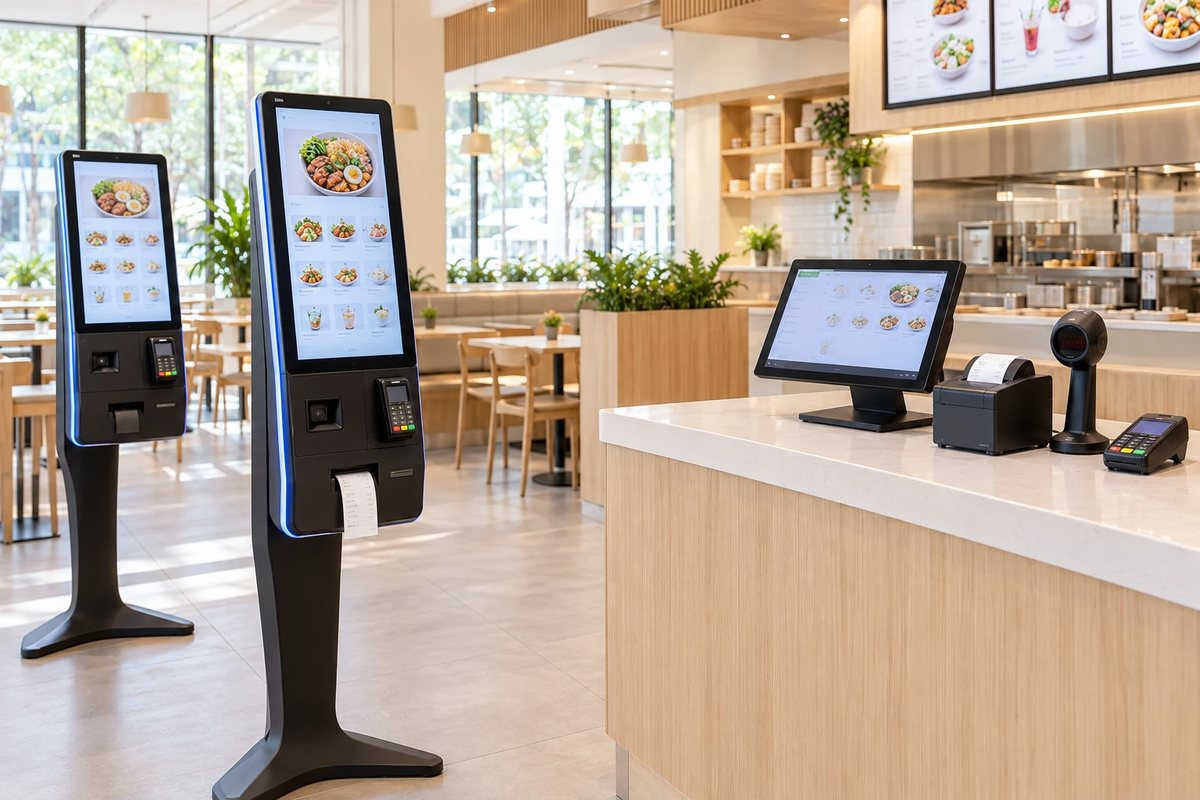
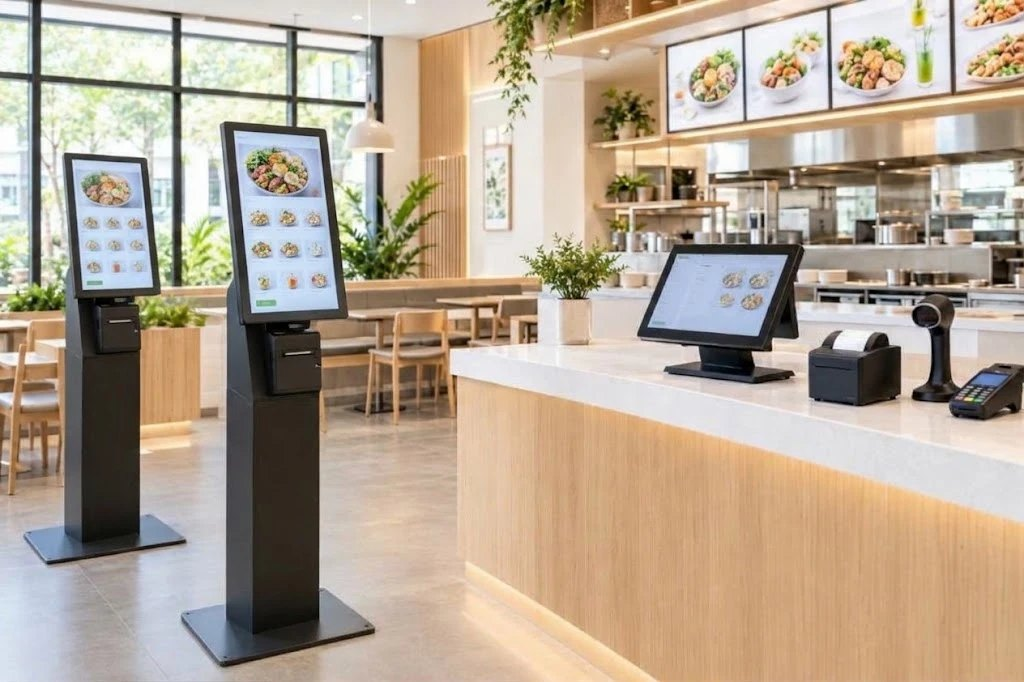
Printer & POS card: kiosks closer to the Custom design
A second AI-generated image from the user replaces the first: the
self-ordering kiosks are now square columns on flat base plates with a
tilted portrait screen and a built-in receipt printer, like Custom's
own kiosks, beside the same POS counter. 1024x682, same filename,
cache-buster at v=3. PHOTOS-NEEDED.txt updated.

diff --git a/index.html b/index.html
@@ -337,7 +337,7 @@
 
       <div class="dcard reveal d3">
         <div class="dimg">
-          <img src="photos/group/divisions/div-printer-pos-card.jpg?v=2" alt="" onerror="this.style.display='none';var s=this.nextElementSibling;if(s)s.style.display='flex'" loading="lazy" />
+          <img src="photos/group/divisions/div-printer-pos-card.jpg?v=3" alt="" onerror="this.style.display='none';var s=this.nextElementSibling;if(s)s.style.display='flex'" loading="lazy" />
           <div class="ph" style="display:none"><svg viewBox="0 0 24 24"><rect x="3" y="3" width="18" height="18" rx="2"/><circle cx="8.5" cy="8.5" r="1.5"/><path d="M21 15l-5-5L5 21"/></svg><span>Photo needed</span></div>
         </div>
         <div class="dhead"><h3>Printer &amp; POS</h3><div class="co">Printing, scanning &amp; point-of-sale hardware and software</div><a class="vbtn" href="gralessando-custom-sea/">Visit site <svg viewBox="0 0 24 24"><path d="M5 12h14M13 6l6 6-6 6"/></svg></a></div>
